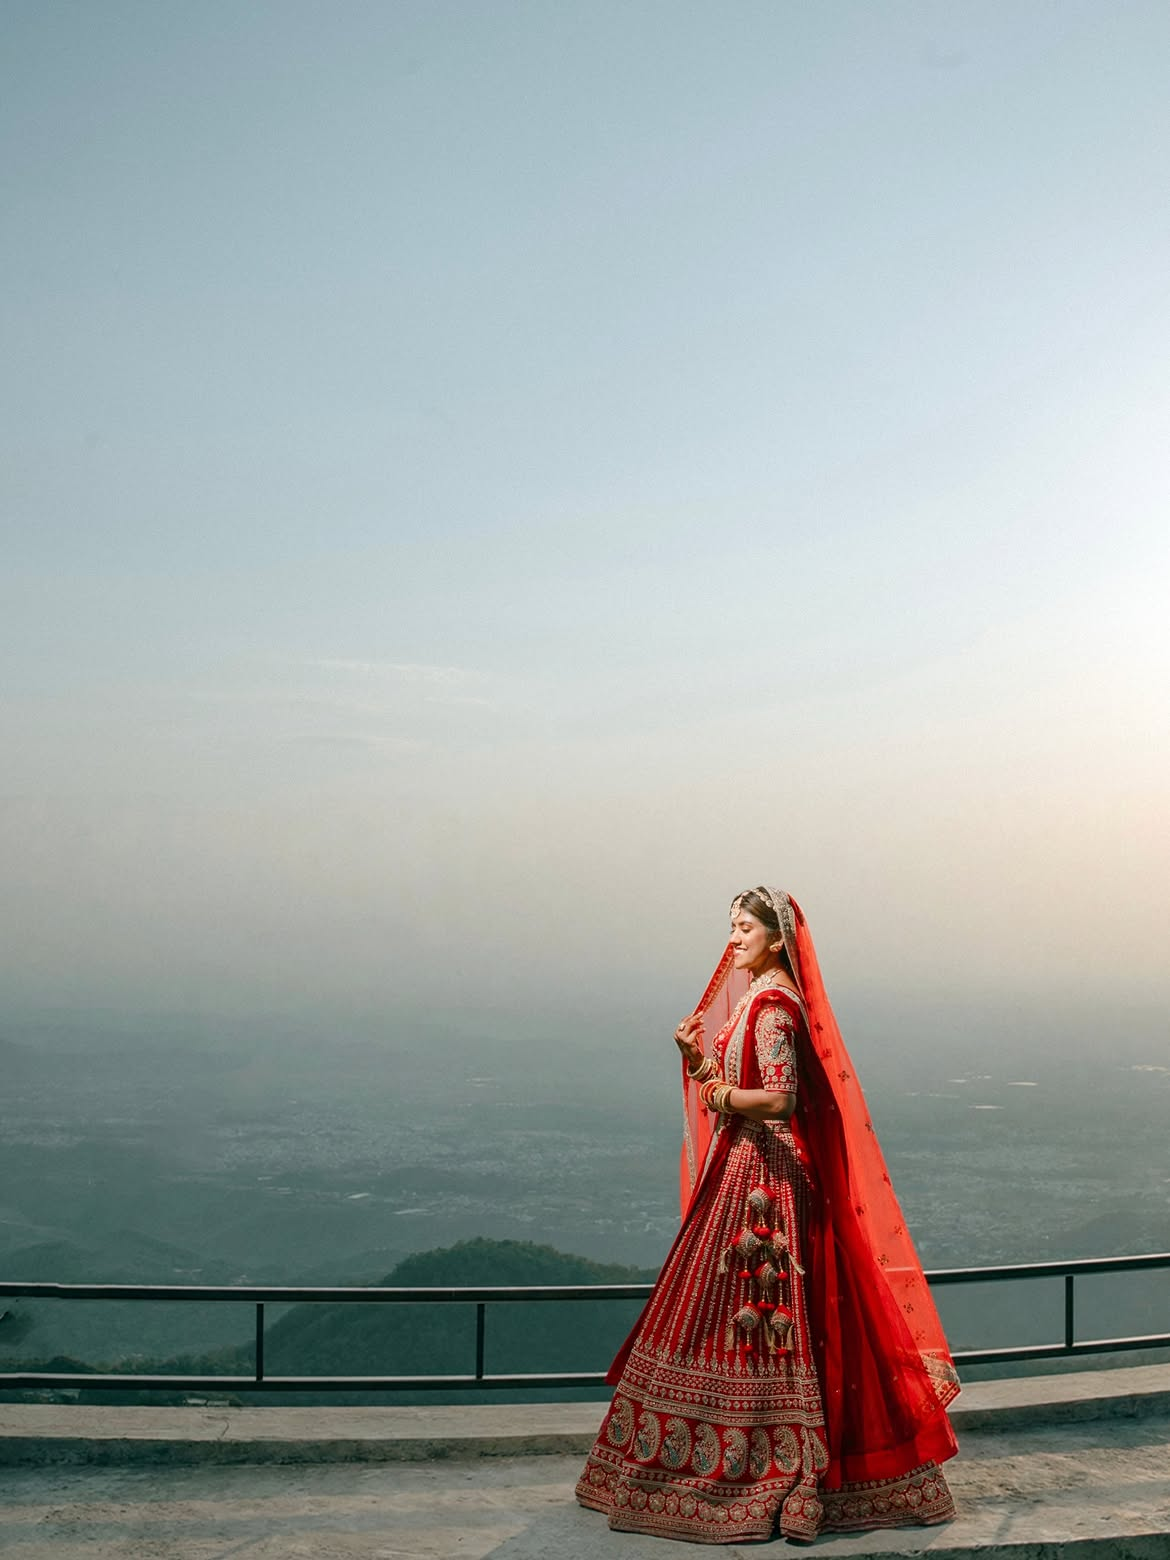
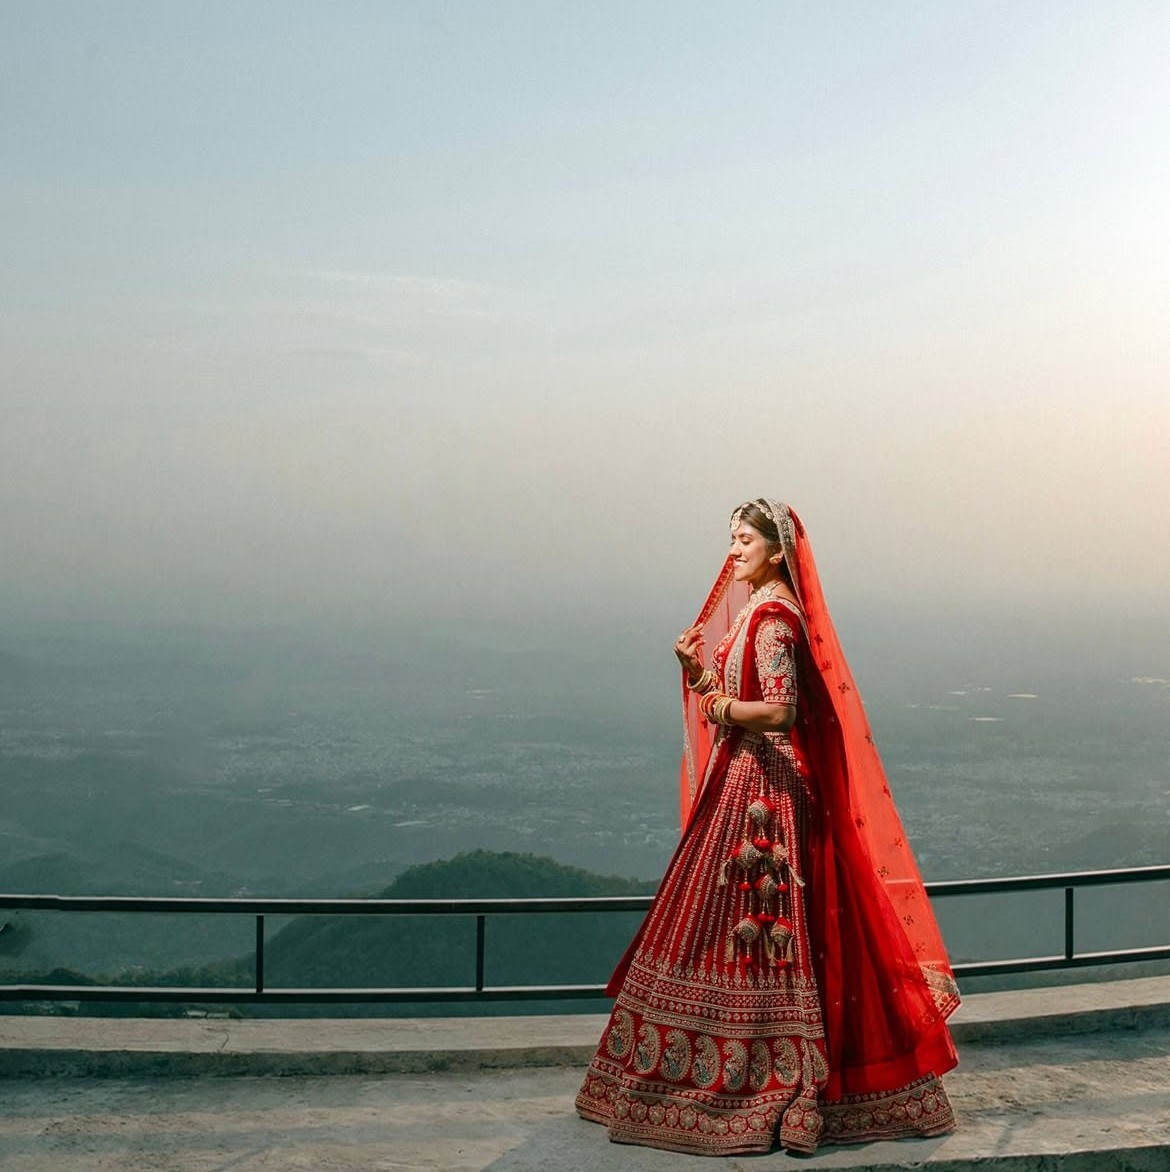
Add files via upload

diff --git a/index.html b/index.html
@@ -516,19 +516,19 @@
             
             <!-- Replace the src links below with the direct image links from your Google Drive -->
             <div class="gallery-item">
-                <img src="1.jpg" alt="Wedding Moments 1">
+                <img src="1.jpeg" alt="Wedding Moments 1">
             </div>
 
             <div class="gallery-item">
-                <img src="2.jpg" alt="Wedding Moments 2">
+                <img src="2.jpeg" alt="Wedding Moments 2">
             </div>
 
             <div class="gallery-item">
-                <img src="3.jpg" alt="Wedding Moments 3">
+                <img src="3.jpeg" alt="Wedding Moments 3">
             </div>
 
             <div class="gallery-item">
-                <img src="4.jpg" alt="Wedding Moments 4">
+                <img src="4.jpeg" alt="Wedding Moments 4">
             </div>
             
         </div>
@@ -549,7 +549,7 @@
                         <li>1 Cinematographer</li>
                         <li>1 Candid Photographer</li>
                         <li>1 Traditional Photographer</li>
-                        <li>Drone on Marriage Date (1 Day)</li>
+                       
                     </ul>
                     <h4>Deliverables</h4>
                     <ul>
@@ -578,7 +578,7 @@
                         <li>1 Cinematographer</li>
                         <li>1 Candid Photographer</li>
                         <li>1 Traditional Photographer</li>
-                        <li>Drone on Marriage Date (1 Day)</li>
+                      
                     </ul>
                     <h4>Deliverables</h4>
                     <ul>
@@ -605,7 +605,7 @@
                         <li>1 Cinematographer</li>
                         <li>1 Candid Photographer</li>
                         <li>1 Traditional Photographer</li>
-                        <li>Drone on Marriage Date (1 Day)</li>
+                       
                         <li>Drone on Pre-Wedding (1 Day)</li>
                     </ul>
                     <h4>Deliverables</h4>
@@ -639,7 +639,7 @@
                         <li>1 Cinematographer</li>
                         <li>1 Candid Photographer</li>
                         <li>1 Traditional Photographer</li>
-                        <li>Drone on Marriage Day (1 Day)</li>
+                      
                     </ul>
                     <h4>Deliverables</h4>
                     <ul>
@@ -666,7 +666,7 @@
                         <li>1 Cinematographer</li>
                         <li>1 Candid Photographer</li>
                         <li>1 Traditional Photographer</li>
-                        <li>Drone on Marriage Day (1 Day)</li>
+                       
                     </ul>
                     <h4>Deliverables</h4>
                     <ul>
@@ -693,7 +693,7 @@
                         <li>1 Cinematographer</li>
                         <li>1 Candid Photographer</li>
                         <li>1 Traditional Photographer</li>
-                        <li>Drone on Marriage Day (1 Day)</li>
+                       
                         <li>Drone on Pre-Wedding (1 Day)</li>
                     </ul>
                     <h4>Deliverables</h4>
@@ -722,7 +722,7 @@
                         <li>1 Cinematographer</li>
                         <li>1 Candid Photographer</li>
                         <li>1 Traditional Photographer</li>
-                        <li>Drone on Marriage Day (1 Day)</li>
+                    
                         <li>Drone on Pre-Wedding (1 Day)</li>
                     </ul>
                     <h4>Deliverables</h4>
@@ -756,7 +756,7 @@
                         <li>2 Cinematographers</li>
                         <li>2 Candid Photographers</li>
                         <li>2 Traditional Photographers</li>
-                        <li>Drone on Marriage Date</li>
+                        
                     </ul>
                     <h4>Deliverables</h4>
                     <ul>
@@ -783,7 +783,7 @@
                         <li>2 Cinematographers</li>
                         <li>2 Candid Photographers</li>
                         <li>2 Traditional Photographers</li>
-                        <li>Drone on Marriage Date</li>
+                     
                     </ul>
                     <h4>Deliverables</h4>
                     <ul>
@@ -812,7 +812,7 @@
                         <li>2 Candid Photographers</li>
                         <li>2 Traditional Photographers</li>
                         <li>Drone on Pre-Wedding (1 Day)</li>
-                        <li>Drone on Marriage Day (1 Day)</li>
+                     
                     </ul>
                     <h4>Deliverables</h4>
                     <ul>
@@ -927,15 +927,15 @@
             <div class="gallery-grid" style="margin-bottom: 0;">
                 
                 <div class="gallery-item">
-                    <img src="5.jpg" alt="Wedding Moments 5">
+                    <img src="5.jpeg" alt="Wedding Moments 5">
                 </div>
 
                 <div class="gallery-item">
-                    <img src="6.jpg" alt="Wedding Moments 6">
+                    <img src="6.jpeg" alt="Wedding Moments 6">
                 </div>
 
                 <div class="gallery-item">
-                    <img src="7.jpg" alt="Wedding Moments 7">
+                    <img src="7.jpeg" alt="Wedding Moments 7">
                 </div>
                 
             </div>
